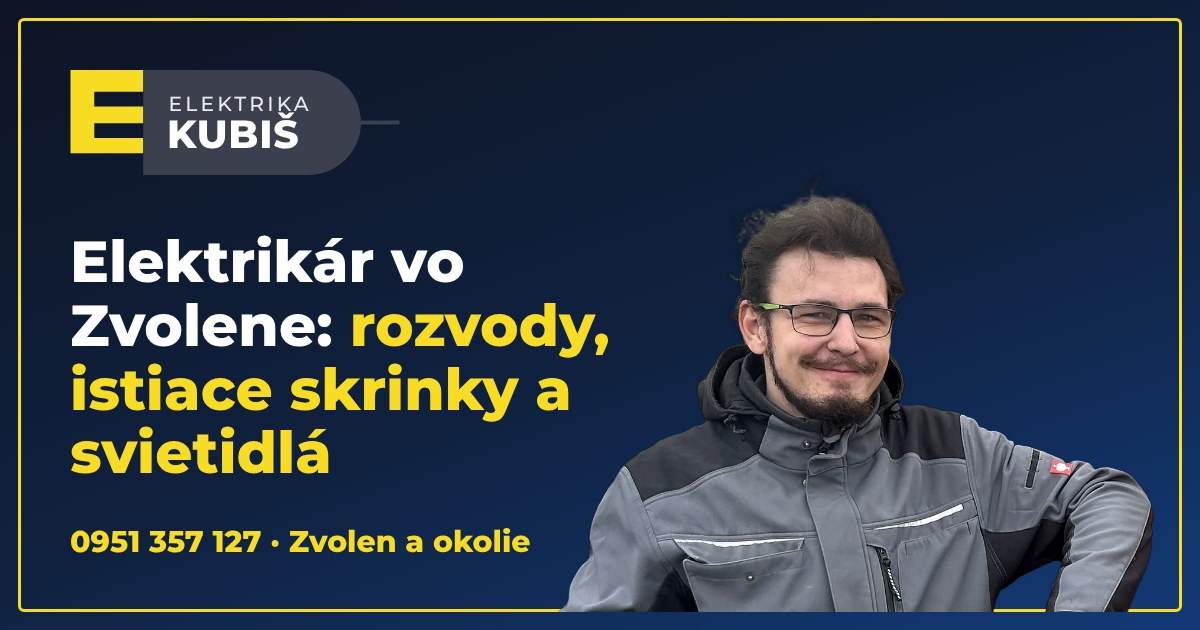
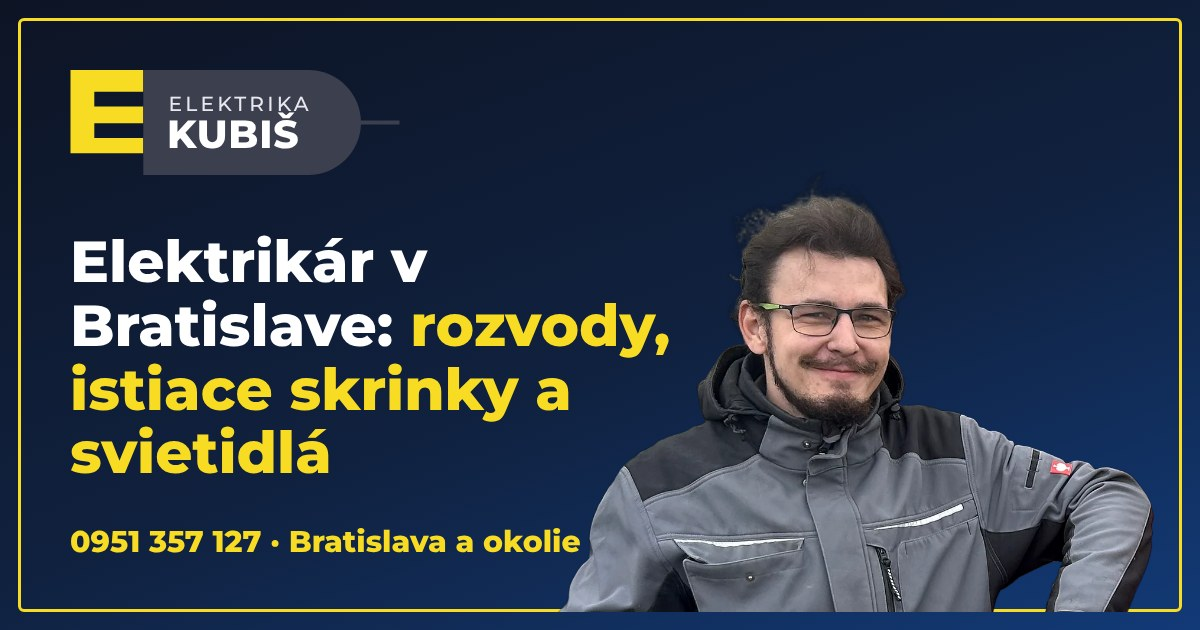
Retarget copy and SEO/GEO from Zvolen to Bratislava; keep Zvolen as registered seat only
Claude-Session: https://claude.ai/code/session_01FQS32KK481ALHHGbBcA6mU

Changed region(s): [[0.0617, 0.4825, 0.555, 0.573], [0.2158, 0.8444, 0.4933, 0.8746], [0.3392, 0.3921, 0.4008, 0.4524]]

diff --git a/artifacts/elektrika-kubis/src/index.html b/artifacts/elektrika-kubis/src/index.html
@@ -3,8 +3,8 @@
 <head>
   <meta charset="utf-8">
   <meta name="viewport" content="width=device-width, initial-scale=1">
-  <title>Elektrikár Zvolen | Elektrika Kubiš – elektroinštalácie, rozvádzače, svietidlá</title>
-  <meta name="description" content="Elektrikár vo Zvolene a okolí. Elektroinštalácie a rozvody, istiace skrinky a rozvádzače, svietidlá, zásuvky, hľadanie porúch v bytoch a domoch. Nezáväzná ponuka cez formulár alebo WhatsApp.">
+  <title>Elektrikár Bratislava | Elektrika Kubiš – elektroinštalácie, rozvádzače, svietidlá</title>
+  <meta name="description" content="Elektrikár v Bratislave a okolí. Elektroinštalácie a rozvody, istiace skrinky a rozvádzače, svietidlá, zásuvky a hľadanie porúch v bytoch a domoch. Nezáväzná cenová ponuka cez formulár alebo WhatsApp.">
   <meta name="author" content="Dávid Kubiš">
   <meta name="robots" content="index, follow, max-image-preview:large, max-snippet:-1">
   <meta name="theme-color" content="#0d1424">
@@ -13,21 +13,21 @@
   <link rel="alternate" hreflang="x-default" href="__SITE_URL__/">
 
   <!-- Lokálne SEO (geo) -->
-  <meta name="geo.region" content="SK-BC">
-  <meta name="geo.placename" content="Zvolen">
-  <meta name="geo.position" content="48.5747;19.1530">
-  <meta name="ICBM" content="48.5747, 19.1530">
+  <meta name="geo.region" content="SK-BL">
+  <meta name="geo.placename" content="Bratislava">
+  <meta name="geo.position" content="48.1486;17.1077">
+  <meta name="ICBM" content="48.1486, 17.1077">
 
   <meta property="og:type" content="website">
   <meta property="og:locale" content="sk_SK">
   <meta property="og:site_name" content="Elektrika Kubiš">
-  <meta property="og:title" content="Elektrikár Zvolen | Elektrika Kubiš">
-  <meta property="og:description" content="Elektroinštalácie, rozvádzače, svietidlá a hľadanie porúch v bytoch a domoch vo Zvolene a okolí. Dávid Kubiš, tel. 0951 357 127.">
+  <meta property="og:title" content="Elektrikár Bratislava | Elektrika Kubiš">
+  <meta property="og:description" content="Elektroinštalácie, rozvádzače, svietidlá a hľadanie porúch v bytoch a domoch v Bratislave a okolí. Dávid Kubiš, tel. 0951 357 127.">
   <meta property="og:url" content="__SITE_URL__/">
   <meta property="og:image" content="__SITE_URL__/og-image.jpg">
   <meta property="og:image:width" content="1200">
   <meta property="og:image:height" content="630">
-  <meta property="og:image:alt" content="Elektrika Kubiš – elektrikár vo Zvolene">
+  <meta property="og:image:alt" content="Elektrika Kubiš – elektrikár v Bratislave">
   <meta name="twitter:card" content="summary_large_image">
 
   <link rel="icon" href="/favicon.svg" type="image/svg+xml">
@@ -113,9 +113,9 @@
     </div>
     <div class="wrap hero__grid">
       <div class="hero__copy">
-        <p class="eyebrow"><svg class="ico" aria-hidden="true"><use href="#i-bolt"/></svg> Elektrika Kubiš · Zvolen</p>
-        <h1 id="hero-title">Elektrikár vo Zvolene: <span>rozvody, istiace skrinky a svietidlá</span> pre váš byt aj dom</h1>
-        <p class="lead">Poctivá elektrikárska práca bez zbytočných rečí. Nové rozvody, výmena rozvádzača, montáž svietidiel, zásuvky aj hľadanie porúch – vo Zvolene a okolí. Dohodneme sa na cene vopred.</p>
+        <p class="eyebrow"><svg class="ico" aria-hidden="true"><use href="#i-bolt"/></svg> Elektrika Kubiš · Bratislava</p>
+        <h1 id="hero-title">Elektrikár v Bratislave: <span>rozvody, istiace skrinky a svietidlá</span> pre váš byt aj dom</h1>
+        <p class="lead">Poctivá elektrikárska práca bez zbytočných rečí. Nové rozvody, výmena rozvádzača, montáž svietidiel, zásuvky aj hľadanie porúch v bytoch a domoch v Bratislave a okolí. Cenu dohodneme vopred.</p>
         <div class="hero__cta">
           <a class="btn btn--yellow btn--lg" href="#kontakt">Nezáväzná ponuka</a>
           <a class="btn btn--wa btn--lg" href="https://wa.me/421951357127?text=Dobr%C3%BD%20de%C5%88%2C%20potrebujem%20elektrik%C3%A1ra%20(web%20Elektrika%20Kubi%C5%A1)." rel="noopener" target="_blank">
@@ -124,8 +124,8 @@
         </div>
         <ul class="chips" aria-label="Prečo Elektrika Kubiš">
           <li><svg class="ico" aria-hidden="true"><use href="#i-check"/></svg> Byty aj rodinné domy</li>
-          <li><svg class="ico" aria-hidden="true"><use href="#i-check"/></svg> Zvolen a okolie</li>
-          <li><svg class="ico" aria-hidden="true"><use href="#i-check"/></svg> Cena vopred, faktúra vždy</li>
+          <li><svg class="ico" aria-hidden="true"><use href="#i-check"/></svg> Bratislava a okolie</li>
+          <li><svg class="ico" aria-hidden="true"><use href="#i-check"/></svg> Cena dohodnutá vopred</li>
         </ul>
       </div>
       <figure class="hero__figure">
@@ -134,8 +134,8 @@
              srcset="/images/david-hero-720.webp 720w, /images/david-hero-1100.webp 1100w"
              sizes="(min-width: 900px) 540px, 80vw"
              width="1100" height="795"
-             alt="Dávid Kubiš, elektrikár zo Zvolena, v pracovnej bunde" fetchpriority="high">
-        <figcaption class="hero__tag"><strong>Dávid Kubiš</strong><span>elektrikár · Zvolen</span></figcaption>
+             alt="Dávid Kubiš, elektrikár v Bratislave, v pracovnej bunde" fetchpriority="high">
+        <figcaption class="hero__tag"><strong>Dávid Kubiš</strong><span>elektrikár · Bratislava</span></figcaption>
       </figure>
     </div>
   </section>
@@ -226,12 +226,12 @@
              srcset="/images/david-about-640.webp 640w, /images/david-about-1000.webp 1000w"
              sizes="(min-width: 900px) 460px, 80vw"
              width="1000" height="1218" loading="lazy"
-             alt="Dávid Kubiš, elektrikár z Elektriky Kubiš vo Zvolene">
+             alt="Dávid Kubiš, elektrikár z Elektriky Kubiš v Bratislave">
       </figure>
       <div class="about__copy reveal">
         <p class="kicker">O mne</p>
-        <h2 id="omne-title">Dávid Kubiš, elektrikár zo Zvolena</h2>
-        <p>Volám sa Dávid a elektrina je moja každodenná práca. Pracujem sám, takže viete, s kým sa dohodnete a kto k vám príde. Žiadny call-centrum, žiadne odovzdávanie zákazky ďalej.</p>
+        <h2 id="omne-title">Dávid Kubiš, elektrikár v Bratislave</h2>
+        <p>Volám sa Dávid a elektrina je moja každodenná práca. Pracujem sám, takže viete, s kým sa dohodnete a kto k vám príde. Žiadne call-centrum, žiadne odovzdávanie zákazky ďalej.</p>
         <p>Nechcem vám predávať zbytočnosti. Poviem vám, čo je problém, čo treba urobiť a koľko to bude stáť. Potom to urobím tak, aby to fungovalo bezpečne aj o roky.</p>
         <ul class="ticks">
           <li><svg class="ico" aria-hidden="true"><use href="#i-check"/></svg> Vysvetlím po ľudsky, čo je potrebné a prečo</li>
@@ -265,16 +265,16 @@
     <div class="wrap area">
       <div class="reveal">
         <p class="kicker kicker--light">Oblasť pôsobenia</p>
-        <h2 id="oblast-title">Elektrikár vo Zvolene a v okolí</h2>
-        <p>Pôsobím vo <strong>Zvolene</strong> a v okolí. Prídem do bytov, rodinných domov aj menších prevádzok. Ak si nie ste istí, či k vám dôjdem, stačí sa opýtať.</p>
+        <h2 id="oblast-title">Elektrikár v Bratislave a okolí</h2>
+        <p>Pracujem v <strong>Bratislave</strong> a jej okolí: v bytoch, rodinných domoch aj menších prevádzkach. Ak si nie ste istí, či k vám dôjdem, stačí sa opýtať.</p>
         <address class="area__addr">
           <svg class="ico" aria-hidden="true"><use href="#i-pin"/></svg>
-          <span>Elektrika Kubiš<br>Prachatická 2478/18, 960 01 Zvolen<br>IČO: 54649820</span>
+          <span>Elektrika Kubiš · IČO: 54649820<br>Sídlo: Prachatická 2478/18, 960 01 Zvolen</span>
         </address>
       </div>
       <ul class="towns reveal" aria-label="Lokality, kde pôsobím">
-        <li>Zvolen</li><li>Sliač</li><li>Banská Bystrica</li><li>Detva</li><li>Krupina</li>
-        <li>Kremnica</li><li>Banská Štiavnica</li><li>Žiar nad Hronom</li><li>Hriňová</li><li>Podbrezová</li>
+        <li>Bratislava</li><li>Petržalka</li><li>Ružinov</li><li>Nové Mesto</li><li>Karlova Ves</li><li>Dúbravka</li>
+        <li>Rača</li><li>Devínska Nová Ves</li><li>Podunajské Biskupice</li><li>Stupava</li><li>Pezinok</li><li>Senec</li>
       </ul>
     </div>
   </section>
@@ -287,7 +287,7 @@
         <h2 id="faq-title">Na čo sa ma zákazníci pýtajú</h2>
       </header>
       <div class="faq reveal">
-        <details><summary>Kde pôsobíte a chodíte aj mimo Zvolena?</summary><p>Pôsobím vo Zvolene a v okolí, napríklad v Sliači, Banskej Bystrici, Detve, Krupine, Kremnici či Banskej Štiavnici. Stačí napísať, kde potrebujete elektrikára, a poviem vám, či je to možné.</p></details>
+        <details><summary>Kde pôsobíte a chodíte aj mimo Bratislavy?</summary><p>Pracujem v Bratislave vo všetkých mestských častiach, napríklad v Petržalke, Ružinove, Novom Meste, Karlovej Vsi či Dúbravke, a v okolí, napríklad v Stupave, Pezinku alebo Senci. Stačí napísať, kde potrebujete elektrikára, a poviem vám, či je to možné.</p></details>
         <details><summary>Koľko stojí elektrikár?</summary><p>Cena závisí od rozsahu práce, množstva materiálu a prístupu k rozvodom. Pošlite popis alebo fotku cez formulár či WhatsApp a dostanete nezáväznú cenu ešte pred začiatkom práce.</p></details>
         <details><summary>Dá sa vymeniť stará istiaca skrinka alebo poistky?</summary><p>Áno. Staré poistky a rozvádzače vymieňam za moderné ističe a chrániče. Pri výmene treba vypnúť prívod elektriny, preto si termín vopred dohodneme tak, aby vás to čo najmenej obmedzilo.</p></details>
         <details><summary>Vypadáva mi istič. Viete pomôcť?</summary><p>Áno. Istič vypadáva z konkrétneho dôvodu, napríklad preťaženie okruhu, chybný spotrebič alebo poškodený rozvod. Nájdem príčinu a opravím ju, nielen istič znova zapnem.</p></details>
@@ -304,12 +304,12 @@
       <div class="contact__info reveal">
         <p class="kicker kicker--light">Kontakt</p>
         <h2 id="kontakt-title">Potrebujete elektrikára? Ozvite sa.</h2>
-        <p>Opíšte, čo potrebujete. Ozvem sa vám s nezáväznou cenou, zvyčajne v ten istý deň.</p>
+        <p>Opíšte, čo potrebujete, a pošlite fotku, ak ju máte. Ozvem sa vám s nezáväznou cenovou ponukou.</p>
         <ul class="contact__list">
           <li><svg class="ico" aria-hidden="true"><use href="#i-phone"/></svg><a href="tel:+421951357127">0951 357 127</a></li>
           <li><svg class="ico" aria-hidden="true"><use href="#i-wa"/></svg><a href="https://wa.me/421951357127?text=Dobr%C3%BD%20de%C5%88%2C%20potrebujem%20elektrik%C3%A1ra." target="_blank" rel="noopener">Napísať na WhatsApp</a></li>
           <li><svg class="ico" aria-hidden="true"><use href="#i-mail"/></svg><a href="mailto:elektrikakubis@gmail.com">elektrikakubis@gmail.com</a></li>
-          <li><svg class="ico" aria-hidden="true"><use href="#i-pin"/></svg><span>Prachatická 2478/18, 960 01 Zvolen</span></li>
+          <li><svg class="ico" aria-hidden="true"><use href="#i-pin"/></svg><span>Bratislava a okolie</span></li>
         </ul>
       </div>
 
@@ -344,7 +344,7 @@
         </div>
         <div class="field">
           <label for="f-msg">Krátky popis <small>(nepovinné)</small></label>
-          <textarea id="f-msg" name="message" rows="4" maxlength="1500" placeholder="Napr. byt vo Zvolene, vypadáva istič pri zapnutí rúry…"></textarea>
+          <textarea id="f-msg" name="message" rows="4" maxlength="1500" placeholder="Napr. byt v Petržalke, vypadáva istič pri zapnutí rúry…"></textarea>
         </div>
         <div class="field field--hp" aria-hidden="true">
           <label for="f-web">Web</label>
@@ -366,7 +366,7 @@
   <div class="wrap footer__grid">
     <div>
       <svg class="brand__logo" width="188" height="60" role="img" aria-label="Elektrika Kubiš"><use href="#logo"/></svg>
-      <p class="footer__note">Elektrikár vo Zvolene a okolí. Elektroinštalácie, rozvádzače, svietidlá a opravy v bytoch a domoch.</p>
+      <p class="footer__note">Elektrikár v Bratislave a okolí. Elektroinštalácie, rozvádzače, svietidlá a opravy v bytoch a domoch.</p>
     </div>
     <div>
       <h2 class="footer__h">Kontakt</h2>
@@ -377,7 +377,7 @@
       </ul>
     </div>
     <div>
-      <h2 class="footer__h">Prevádzkovateľ</h2>
+      <h2 class="footer__h">Sídlo a IČO</h2>
       <p>Dávid Kubiš<br>Prachatická 2478/18<br>960 01 Zvolen<br>IČO: 54649820</p>
     </div>
   </div>

diff --git a/artifacts/elektrika-kubis/README.md b/artifacts/elektrika-kubis/README.md
@@ -1,6 +1,6 @@
 # Elektrika Kubiš – landing page
 
-One-page web pre elektrikára Dávida Kubiša (Zvolen). Čisté HTML/CSS/JS bez frameworku, build len skopíruje
+One-page web pre elektrikára Dávida Kubiša (Bratislava, sídlo živnosti Zvolen). Čisté HTML/CSS/JS bez frameworku, build len skopíruje
 `src/` do `dist/` a doplní doménu + JSON-LD (`scripts/build.mjs`). Formulár posiela dopyty cez `api/lead.ts`
 (Vercel Function, rovnaký princíp ako v Freshkom).
 
